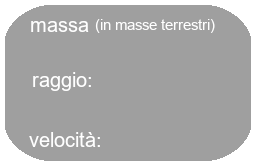
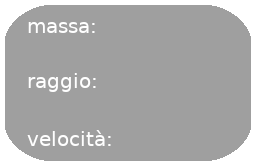
Bug fixes

Changed region(s): [[0.0938, 0.1205, 0.8438, 0.2108], [0.0938, 0.7831, 0.4375, 0.9036], [0.0938, 0.4217, 0.375, 0.5723]]

diff --git a/gui.py b/gui.py
@@ -1,24 +1,31 @@
 import pygame
 import os
-
 from body import Body
+import time
 
-class GUI:
+class UI:
 
     def __init__(self) -> None:
         self.widgets = []
         self.enabled = True
 
     def handle_event(self, event, mouse_pos=None, mouse_vel=None) -> None:
-        if event.type == pygame.MOUSEBUTTONDOWN:
-            mouse_pos = mouse_pos if mouse_pos is not None else pygame.mouse.get_pos()
+        '''
+            Handles the pygame event event.\n
+            mouse_pos -> position of the mouse.\\
+            mouse_vel -> displacement of the mouse from the last tick (in pixels).
+        '''
+        if event.type == pygame.MOUSEBUTTONDOWN and event.button == 1:
+            mouse_pos = mouse_pos if mouse_pos is not None else pygame.mouse.get_pos()       
             for widget in self.widgets:
                 widget.on_click(mouse_pos)
+
         elif event.type == pygame.MOUSEMOTION:
             mouse_pos = mouse_pos if mouse_pos is not None else pygame.mouse.get_pos()
             for widget in self.widgets:
                 widget.on_mouse_motion(mouse_pos)
-        elif event.type == pygame.MOUSEBUTTONUP:
+
+        elif event.type == pygame.MOUSEBUTTONUP and event.button == 1:
             mouse_pos = mouse_pos if mouse_pos is not None else pygame.mouse.get_pos()
             for widget in self.widgets:
                 widget.on_click_release(mouse_pos, mouse_vel)
@@ -29,12 +36,11 @@ class GUI:
 
         for widget in self.widgets:
             widget.render(surf)
-        
 
     def add_widget(self, widget) -> None:
         self.widgets.append(widget)
 
-class GUIElement:
+class UIElement:
     font = None
 
     # make a list of children GUIelements, so that their position and whether they
@@ -71,11 +77,14 @@ class GUIElement:
             surf.blit(self.texture, (src[0]+self.pos[0], src[1]+self.pos[1]))
 
     @staticmethod
-    def init_font():
-        GUIElement.font = pygame.font.SysFont('Verdana Bold Italic', 23)
+    def init_font(W=800):
+        '''
+            W -> the width of the screen, the font is set to assume the screen ratio is 4:3
+        '''
+        UIElement.font = pygame.font.SysFont(None, int(23*W/800.0))
 
 
-class ProgressBar(GUIElement):
+class ProgressBar(UIElement):
     BACKGROUND_COLOR = (255,128,0)
     PROGRESS_COLOR = (255,255,0)
 
@@ -91,7 +100,7 @@ class ProgressBar(GUIElement):
             rel_mouse_x = mouse_pos[0] if self.parent is None else mouse_pos[0]-self.parent.pos[0]
             self.val = self.min_val+(self.max_val-self.min_val)*(rel_mouse_x-self.pos[0])/self.size[0]
 
-    def on_mouse_motion(self, mouse_pos) -> None:
+    def on_mouse_motion(self, mouse_pos, *args) -> None:
         if pygame.mouse.get_pressed()[0]:
             self.on_click(mouse_pos)
     
@@ -102,21 +111,33 @@ class ProgressBar(GUIElement):
         pygame.draw.rect(surf, self.PROGRESS_COLOR, (src[0]+self.pos[0], src[1]+self.pos[1], prog_w, self.size[1]))
 
 
-class PlanetGUI(GUIElement):
-    SUN_MASS = 3.32954355178996e5 # mass of the sun/mass of the earth
+class PlanetUI(UIElement):
     MOON_MASS = 1.230312630186531e-2 # mass of the moon/mass of the earth
+    MAX_THROW_VEL = 30 # maximum velocity at which an object can be thrown
+    MIN_THROW_VEL = 0.4 # minimum velocity at which an object can be thrown
+    MIN_CLICK_THROW_TIME = 0.5 # minimum amount of time (in seconds) for which an object has to be clicked in order to be thrown
+    # minimum amount of time (in seconds) for which an object has to be clicked in order to change its velocity when it's dragged
+    MIN_CLICK_CHANGE_VEL_TIME = 0.1 
+#    SUN_MASS = 3.32954355178996e5 # mass of the sun/mass of the earth
 
     def __init__(self, w, h) -> None:
-        super().__init__((int(500/w*800),int(20/h*600)), (int(256/w*800),int(166/h*600)), "gui_background.png")
-        self.w, self.h = w, h
-        self.mass_bar = ProgressBar((30,38), (190,22), min_val=self.MOON_MASS, val=1, max_val=10**6, parent=self)
-        self.radius_bar = ProgressBar((32,93), (190, 22), min_val=1, val=3, max_val=17, parent=self)
-        self.vel_text = super().font.render("0", False, (255,255,255), 0)
+        super().__init__((int(500*w/800),int(20*h/600)), (int(256*w/800),int(166*h/600)), "gui_background.png")
+        # the values were adjusted for this resolution, this way they can be scaled to any given resolution
+        self.x_ratio, self.y_ratio = w/800.0, h/600.0 
+        self.mass_bar = ProgressBar((int(30*self.x_ratio), int(43*self.y_ratio)), (int(190*self.x_ratio),int(22*self.y_ratio)), 
+                                    min_val=self.MOON_MASS, val=1, max_val=10**6, parent=self)
+        self.radius_bar = ProgressBar((int(32*self.x_ratio),int(97*self.y_ratio)), (int(190*self.x_ratio), int(22*self.y_ratio)), 
+                                    min_val=1, val=3, max_val=17, parent=self)
         self.body = None
         self.dragging = False # whether the selected body is being dragged
+        self.click_start = 0
 
-    def set_velocity(self, vel: float) -> None:
-        self.vel_text = super().font.render(str(round(vel, 2))+"*10^6 km/day", False, (255,255,255))
+    def update_texts(self) -> None:
+        self.vel_text = super().font.render(str(round(self.body.get_abs_vel(), 2))+"*10^6 km/day", False, (255,255,255))
+        # only update the text of the mass if it has been changed
+        if self.mass_bar.enabled or 'mass_text' not in dir(self): 
+            mass_text = "%.3g" % (self.body.mass*Body.EARTH_MASS) # in exponential notation ex. 1.00e5 -> 1*10^(5)
+            self.mass_text = super().font.render(mass_text.replace("e", "*10^").replace("+","") + " kg", False, (255,255,255))
 
     def on_click(self, mouse_pos) -> None:
         self.mass_bar.on_click(mouse_pos)
@@ -124,18 +145,23 @@ class PlanetGUI(GUIElement):
         if self.body is not None:
             if self.body.is_on_body(mouse_pos):
                 self.dragging = True
-                self.body.set_vel((0,0))
+                self.click_start = time.time()
 
     def on_mouse_motion(self, mouse_pos) -> None:
         self.mass_bar.on_mouse_motion(mouse_pos)
         self.radius_bar.on_mouse_motion(mouse_pos)
         if self.dragging:
             self.body.set_pos(mouse_pos)
+            if self.body.get_abs_vel() != 0 and time.time()-self.click_start > self.MIN_CLICK_CHANGE_VEL_TIME:
+                self.body.set_vel((0,0))
     
     def on_click_release(self, *args) -> None:
         if self.dragging:
             self.dragging = False
-            self.body.set_vel(args[1]) # args[1] is the displacement of the mouse from the last frame
+            # looks dumb but this way I don't have to import numpy just for this one line
+            if time.time() - self.click_start > self.MIN_CLICK_THROW_TIME:
+                if self.MIN_THROW_VEL < (args[1][0]**2+args[1][0]**2)**(0.5) < self.MAX_THROW_VEL: 
+                    self.body.set_vel(args[1]) # args[1] is the displacement of the mouse from the last frame
 
     def log_body(self, body: Body, enable=True, mouse_pos=None) -> None:
         if body is None:
@@ -145,16 +171,17 @@ class PlanetGUI(GUIElement):
         self.enabled = enable
         self.mass_bar.val = body.mass
         self.radius_bar.val = body.radius
-        self.set_velocity(body.get_abs_vel()) # re-render the velocity text
         self.body = body
+        self.update_texts() # re-render the velocity text
 
     def render(self, surf: pygame.Surface) -> None:
         super().render(surf)
         if self.enabled:
-            self.set_velocity(self.body.get_abs_vel())
+            self.update_texts()
             self.mass_bar.render(surf)
             self.radius_bar.render(surf)
-            surf.blit(self.vel_text, (self.pos[0]+int(105*self.w/800.0), self.pos[1]+int(135*self.h/600))) # velocity text
+            surf.blit(self.vel_text, (self.pos[0]+int(115*self.x_ratio), self.pos[1]+int(135*self.y_ratio))) # velocity text
+            surf.blit(self.mass_text, (self.pos[0]+int(105*self.x_ratio), self.pos[1]+int(20*self.y_ratio)))
 
             # if the mass or the radius was changed, change the body's parameters accordingly
             if self.mass_bar.enabled:

diff --git a/main.py b/main.py
@@ -1,30 +1,30 @@
 import pygame
 from gui import *
 from space import *
-import os
 
-W,H = 800,600
+W,H = 800, 600
 BACKGROUND_COLOR = (0,0,0)
 
+
 def main():
-    GUIElement.init_font()
+    UIElement.init_font()
     font = pygame.font.SysFont('Verdana Bold Italic', 30)
 
     win = pygame.display.set_mode((W,H))
-    pygame.display.set_icon(pygame.image.load(os.path.join('res', 'logo.png')))
     surf = pygame.Surface((W,H))
     fps = 60
     running = True
     clock = pygame.time.Clock()
 
     pygame.display.set_caption("Gravity")
+    pygame.display.set_icon(pygame.image.load(os.path.join('res', 'logo.png')))
 
     first, second = Body((W//2-148,H//2+10), 1), Body((W//2,H//2-10), 3.32954355178996e5)
     first.vel = np.array([0,29.78*1e-6*86400], dtype=np.float64)
     space = Space([first,second], tick_time=1)
 
-    gui = GUI()
-    gui.add_widget(PlanetGUI(W,H))
+    gui = UI()
+    gui.add_widget(PlanetUI(W,H))
 
     days = 0
 
@@ -44,7 +44,7 @@ def main():
                     gui.widgets[0].log_body(loaded_body, mouse_pos)
 
             gui.handle_event(event, mouse_vel=mouse_vel)
-    
+
         surf.fill(BACKGROUND_COLOR)
         space.update()
         space.render(surf)
@@ -52,7 +52,7 @@ def main():
         days += 1
         time_text = font.render(f"Giorni passati: {days}", False, (0,255,255))
 
-        space.render_grav_field(surf, margin=75)
+        space.render_grav_field(surf, margin=75, W=W, H=H)
         
         gui.render(surf)
         surf.blit(time_text, (10,10))

diff --git a/space.py b/space.py
@@ -1,7 +1,6 @@
 import numpy as np
 import pygame
 from body import *
-from main import W,H
 
 arrow_vertices = (np.array(((0, 100), (0, 200), (200, 200), (200, 300), (300, 150), (200, 0), (200, 100)))-150)*np.array([1.35,0.65])/5
 
@@ -46,8 +45,7 @@ class Space:
                 return body
         return None
 
-    def render_grav_field(self, surf: pygame.Surface, margin=100) -> None:
-        global W,H
+    def render_grav_field(self, surf: pygame.Surface, margin=100, W=800, H=600) -> None:
         for i in range(0,W,margin):
             for j in range(0,H,margin):
                 pos = np.array([i,j])
